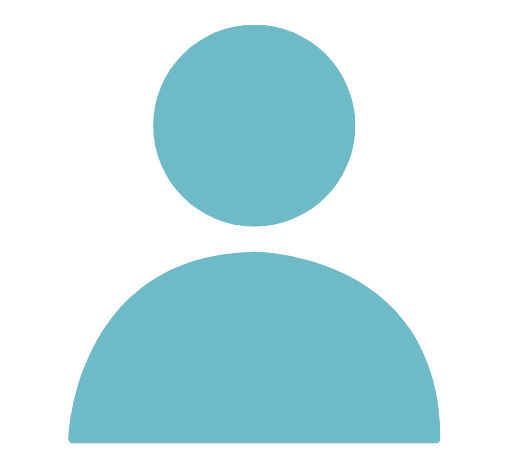
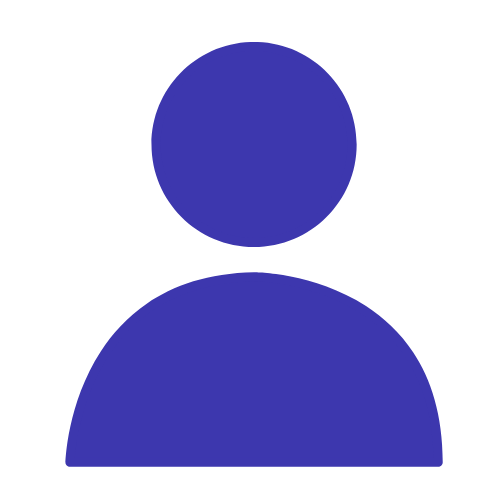
adjusted profile pages css for accessibility

diff --git a/frontend/src/Project/Project.js b/frontend/src/Project/Project.js
@@ -185,7 +185,7 @@ const Project = (props) => {
                 {isDataLoading && (
                   <Loader
                     type="Puff"
-                    color="#3feee6"
+                    color="#312c8b"
                     height={100}
                     width={100}
                   />
@@ -246,7 +246,7 @@ const Project = (props) => {
                     {isDataLoading && (
                       <Loader
                         type="Puff"
-                        color="#3feee6"
+                        color="#312c8b"
                         height={100}
                         width={100}
                       />
@@ -276,7 +276,7 @@ const Project = (props) => {
                     {isDataLoading && (
                       <Loader
                         type="Puff"
-                        color="#3feee6"
+                        color="#312c8b"
                         height={100}
                         width={100}
                       />
@@ -302,7 +302,7 @@ const Project = (props) => {
                     {isDataLoading && (
                       <Loader
                         type="Puff"
-                        color="#3feee6"
+                        color="#312c8b"
                         height={100}
                         width={100}
                       />

diff --git a/frontend/src/Profile/UpdateProfile.js b/frontend/src/Profile/UpdateProfile.js
@@ -130,7 +130,7 @@ function UpdateProfile(props) {
               {isDataLoading && (
                 <Loader
                   type="Puff"
-                  color="#3feee6"
+                  color="#312c8b"
                   height={500}
                   width={500}
                   timeout={3000} //3 secs
@@ -259,7 +259,7 @@ function UpdateProfile(props) {
               )}
               <svg xmlns="http://www.w3.org/2000/svg" viewBox="0 0 1440 320">
                 <path
-                  fill="#97caef"
+                  fill="#1c39bb"
                   fillOpacity="1"
                   d="M0,0L48,5.3C96,11,192,21,288,69.3C384,117,480,203,576,208C672,213,768,139,864,133.3C960,128,1056,192,1152,197.3C1248,203,1344,149,1392,122.7L1440,96L1440,320L1392,320C1344,320,1248,320,1152,320C1056,320,960,320,864,320C768,320,672,320,576,320C480,320,384,320,288,320C192,320,96,320,48,320L0,320Z"
                 ></path>

diff --git a/frontend/src/Profile/Profile.js b/frontend/src/Profile/Profile.js
@@ -132,7 +132,7 @@ function Profile(props) {
                 <div className="container">
                   <Loader
                     type="Puff"
-                    color="#3feee6"
+                    color="#312c8b"
                     height={500}
                     width={500}
                   />{" "}
@@ -237,7 +237,7 @@ function Profile(props) {
               </div>
               <svg xmlns="http://www.w3.org/2000/svg" viewBox="0 0 1440 320">
                 <path
-                  fill="#97caef"
+                  fill="#1c39bb"
                   fillOpacity="1"
                   d="M0,0L48,5.3C96,11,192,21,288,69.3C384,117,480,203,576,208C672,213,768,139,864,133.3C960,128,1056,192,1152,197.3C1248,203,1344,149,1392,122.7L1440,96L1440,320L1392,320C1344,320,1248,320,1152,320C1056,320,960,320,864,320C768,320,672,320,576,320C480,320,384,320,288,320C192,320,96,320,48,320L0,320Z"
                 ></path>

diff --git a/frontend/src/SearchResults/SearchResultsPage.js b/frontend/src/SearchResults/SearchResultsPage.js
@@ -163,7 +163,7 @@ function SearchResultsPage(props) {
                 {isDataLoading && (
                   <Loader
                     type="Puff"
-                    color="#3feee6"
+                    color="#312c8b"
                     height={500}
                     width={500}
                     timeout={3000} //3 secs

diff --git a/frontend/src/Dashboard/Dashboard.js b/frontend/src/Dashboard/Dashboard.js
@@ -342,7 +342,7 @@ function Dashboard(props) {
                   <div className="container">
                     <Loader
                       type="Puff"
-                      color="#3feee6"
+                      color="#312c8b"
                       height={500}
                       width={500}
                     />
